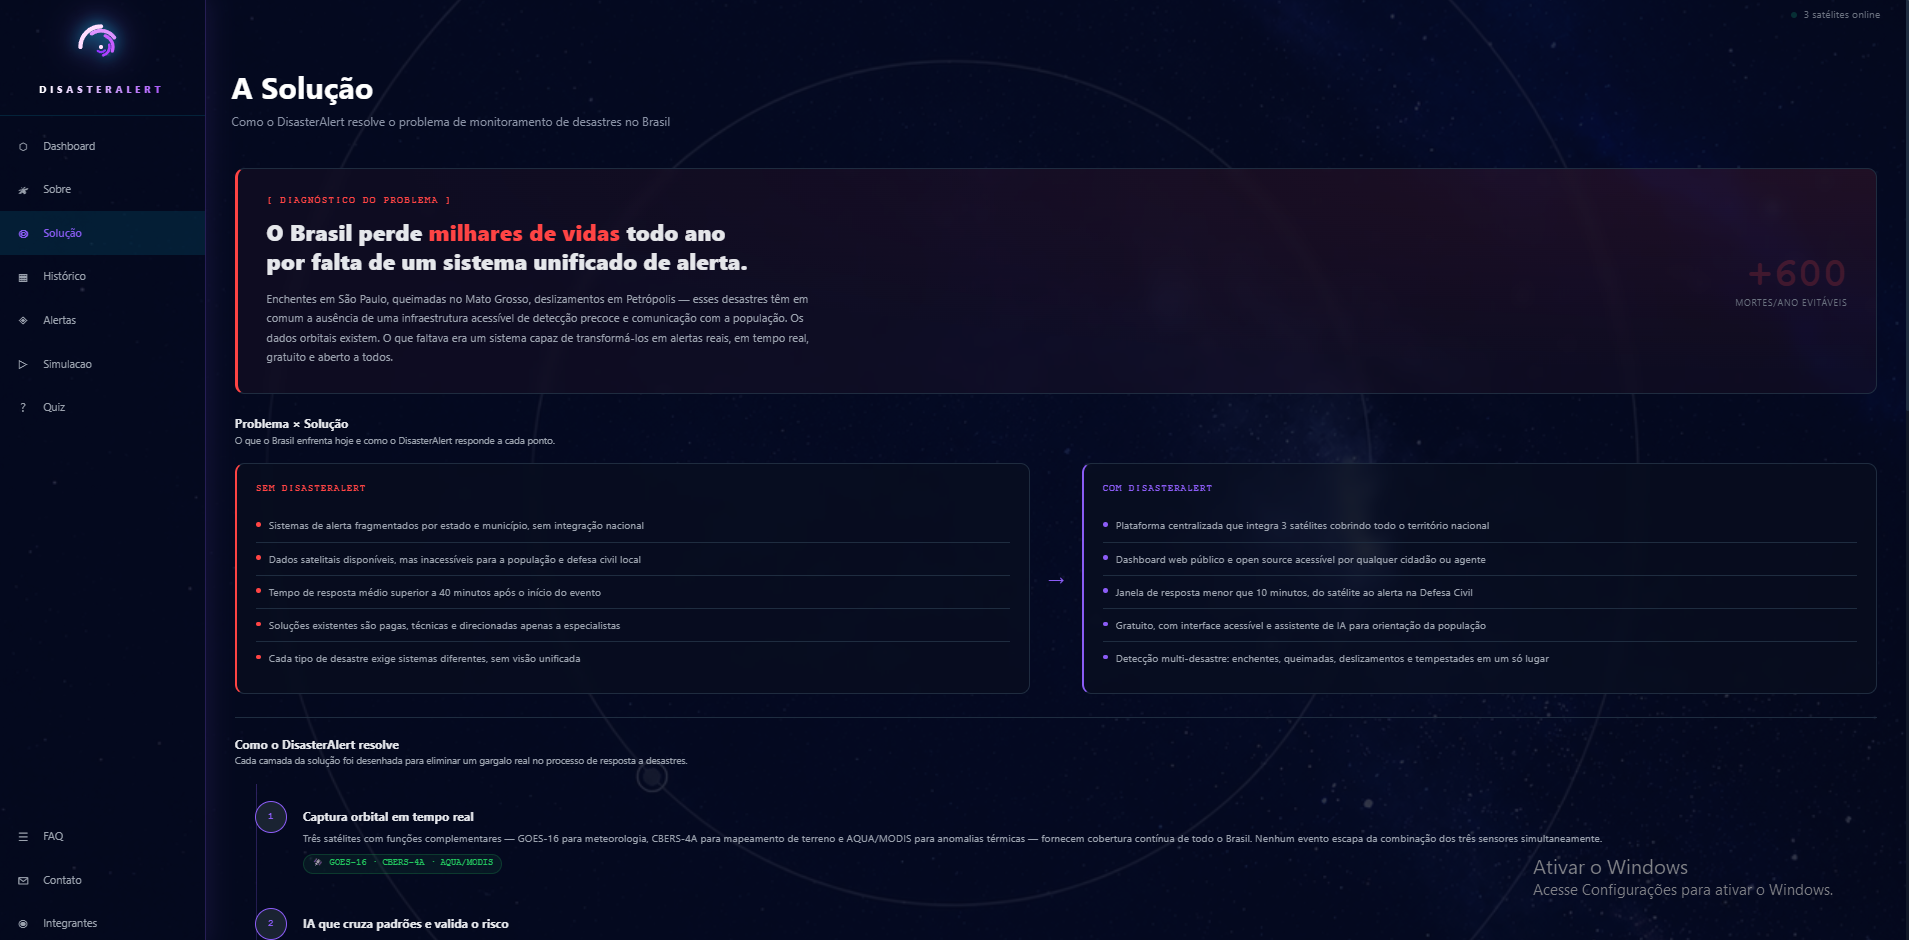
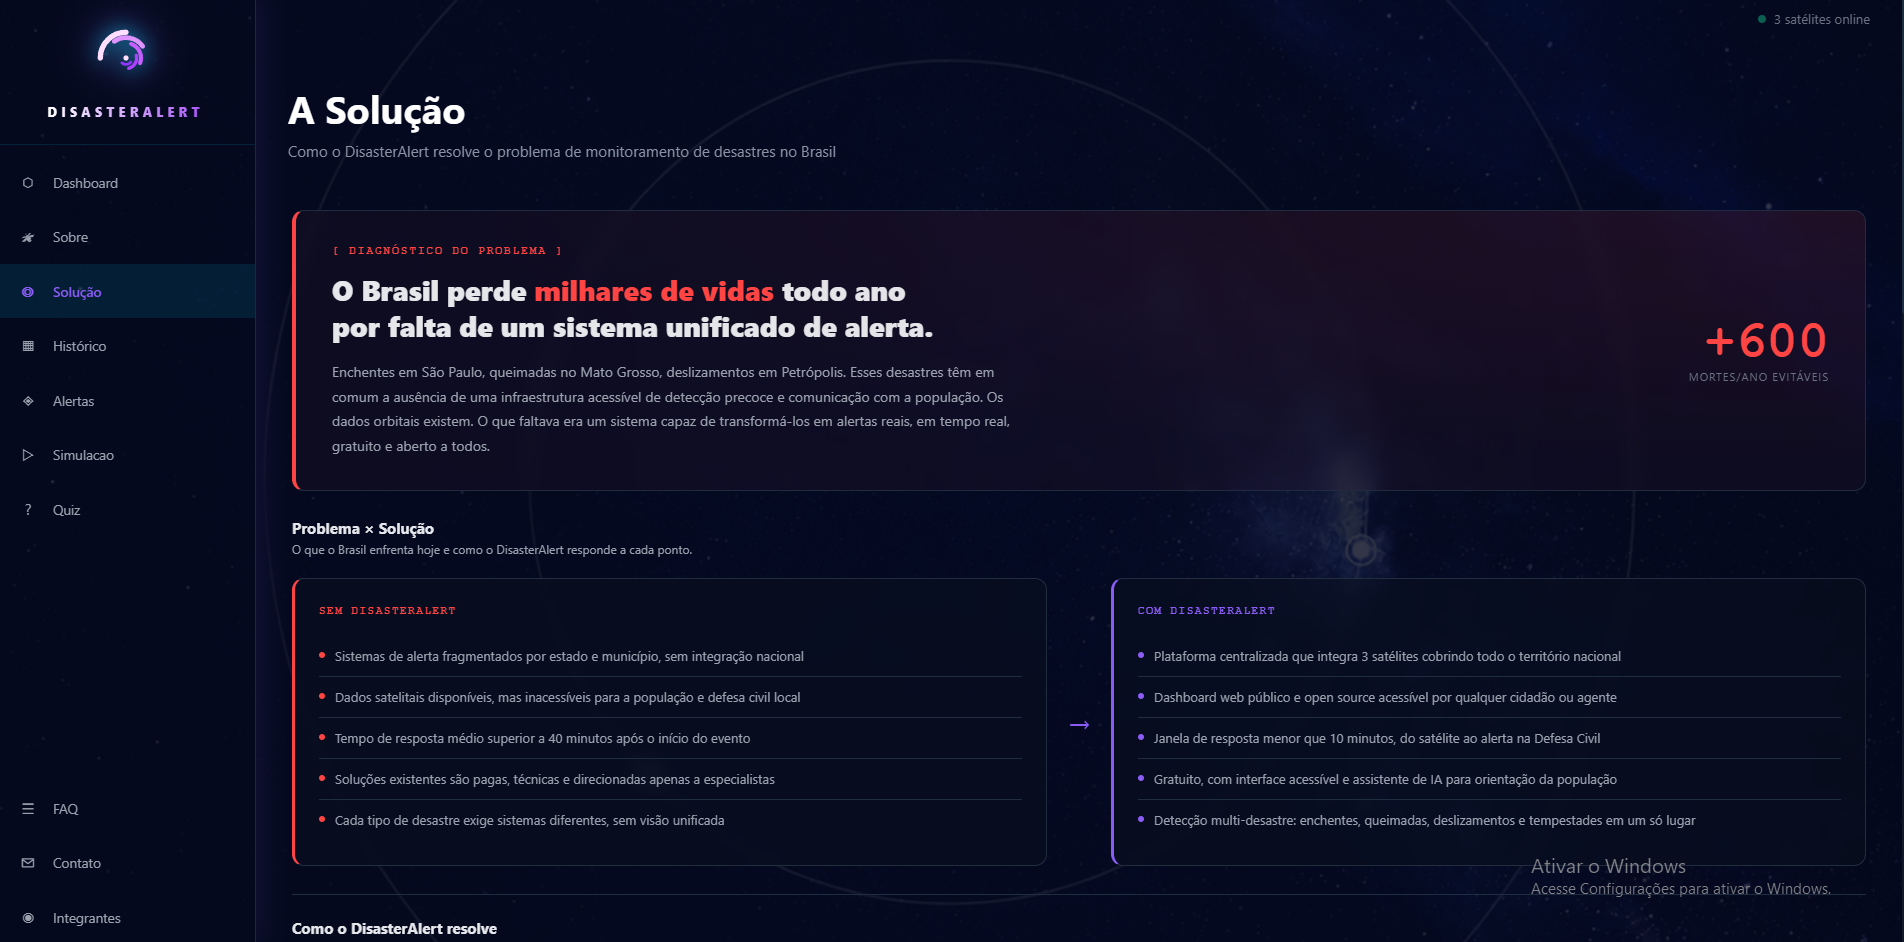
feat: ajustando imagens do print, e excluiando algumas coisas que achamos descenessarias

diff --git a/disaster-alert/pages/timeline.html b/disaster-alert/pages/timeline.html
@@ -90,10 +90,10 @@
       <div class="timeline-filters">
         <span class="timeline-filter-label">Filtrar:</span>
         <button class="tl-filter-btn active" data-filter="todos">Todos</button>
-        <button class="tl-filter-btn" data-filter="enchente">🌊 Enchente</button>
-        <button class="tl-filter-btn" data-filter="queimada">🔥 Queimada</button>
-        <button class="tl-filter-btn" data-filter="deslizamento">⛰ Deslizamento</button>
-        <button class="tl-filter-btn" data-filter="seca">☀ Seca</button>
+        <button class="tl-filter-btn" data-filter="enchente"> Enchente</button>
+        <button class="tl-filter-btn" data-filter="queimada"> Queimada</button>
+        <button class="tl-filter-btn" data-filter="deslizamento"> Deslizamento</button>
+        <button class="tl-filter-btn" data-filter="seca"> Seca</button>
       </div>
 
       <div class="timeline-count" id="timeline-count"></div>
@@ -109,7 +109,7 @@
               <span class="tl-card__year">2024</span>
               <div class="tl-card__main">
                 <div class="tl-card__title">Enchentes no Rio Grande do Sul</div>
-                <div class="tl-card__local">📍 Rio Grande do Sul — Maior desastre climático da história do estado</div>
+                <div class="tl-card__local"> Rio Grande do Sul — Maior desastre climático da história do estado</div>
               </div>
               <span class="tl-card__toggle">▾ ver detalhes</span>
             </div>
@@ -148,7 +148,7 @@
               <span class="tl-card__year">2023</span>
               <div class="tl-card__main">
                 <div class="tl-card__title">Deslizamentos em São Sebastião e Ubatuba</div>
-                <div class="tl-card__local">📍 Litoral Norte de São Paulo</div>
+                <div class="tl-card__local"> Litoral Norte de São Paulo</div>
               </div>
               <span class="tl-card__toggle">▾ ver detalhes</span>
             </div>
@@ -187,7 +187,7 @@
               <span class="tl-card__year">2022</span>
               <div class="tl-card__main">
                 <div class="tl-card__title">Tragédia de Petrópolis</div>
-                <div class="tl-card__local">📍 Petrópolis, RJ — A pior tragédia da cidade em 90 anos</div>
+                <div class="tl-card__local"> Petrópolis, RJ — A pior tragédia da cidade em 90 anos</div>
               </div>
               <span class="tl-card__toggle">▾ ver detalhes</span>
             </div>
@@ -226,7 +226,7 @@
               <span class="tl-card__year">2020</span>
               <div class="tl-card__main">
                 <div class="tl-card__title">Queimadas no Pantanal</div>
-                <div class="tl-card__local">📍 Pantanal no Mato Grosso e Mato Grosso do Sul</div>
+                <div class="tl-card__local"> Pantanal no Mato Grosso e Mato Grosso do Sul</div>
               </div>
               <span class="tl-card__toggle">▾ ver detalhes</span>
             </div>
@@ -265,7 +265,7 @@
               <span class="tl-card__year">2019</span>
               <div class="tl-card__main">
                 <div class="tl-card__title">Queimadas na Amazônia — Crise Global</div>
-                <div class="tl-card__local">📍 Amazônia — Pará, Amazonas, Mato Grosso, Rondônia</div>
+                <div class="tl-card__local"> Amazônia — Pará, Amazonas, Mato Grosso, Rondônia</div>
               </div>
               <span class="tl-card__toggle">▾ ver detalhes</span>
             </div>
@@ -304,7 +304,7 @@
               <span class="tl-card__year">2017</span>
               <div class="tl-card__main">
                 <div class="tl-card__title">Seca no Nordeste — Colapso do Semiárido</div>
-                <div class="tl-card__local">📍 Nordeste Brasileiro. 9 estados em situação de emergência</div>
+                <div class="tl-card__local"> Nordeste Brasileiro. 9 estados em situação de emergência</div>
               </div>
               <span class="tl-card__toggle">▾ ver detalhes</span>
             </div>
@@ -343,7 +343,7 @@
               <span class="tl-card__year">2013</span>
               <div class="tl-card__main">
                 <div class="tl-card__title">Enchentes e Deslizamentos na Região Serrana do Rio</div>
-                <div class="tl-card__local">📍 Serrana Fluminense — Nova Friburgo, Teresópolis, Petrópolis</div>
+                <div class="tl-card__local"> Serrana Fluminense — Nova Friburgo, Teresópolis, Petrópolis</div>
               </div>
               <span class="tl-card__toggle">▾ ver detalhes</span>
             </div>

diff --git a/disaster-alert/pages/solucao.html b/disaster-alert/pages/solucao.html
@@ -156,7 +156,7 @@
             <div class="narrative-step__desc">
               Três satélites com funções complementares. <strong>GOES-16</strong> para <strong>meteorologia</strong>, <strong>CBERS-4A</strong> para <strong>mapeamento de terreno</strong> e <strong>AQUA/MODIS</strong> para <strong>anomalias térmicas</strong> . Fornecem cobertura contínua de todo o Brasil. Nenhum evento escapa da combinação dos três sensores simultaneamente.
             </div>
-            <span class="narrative-step__badge">🛰 GOES-16 · CBERS-4A · AQUA/MODIS</span>
+            <span class="narrative-step__badge"> GOES-16 · CBERS-4A · AQUA/MODIS</span>
           </div>
         </div>
 
@@ -167,7 +167,7 @@
             <div class="narrative-step__desc">
               O núcleo de inteligência artificial do <strong>DisasterAlert</strong> não depende de um único satélite. Ele cruza os dados dos três fontes ao mesmo tempo para validar se um padrão suspeito é realmente um evento de risco. Eliminando falsos positivos e priorizando eventos críticos com severidade classificada.
             </div>
-            <span class="narrative-step__badge">🤖 IBM Watson · Análise multiespectral</span>
+            <span class="narrative-step__badge"> IBM Watson · Análise multiespectral</span>
           </div>
         </div>
 
@@ -178,7 +178,7 @@
             <div class="narrative-step__desc">
               Quando o risco é confirmado, o sistema aciona automaticamente a Defesa Civil via Telegram com nível de severidade, coordenadas e tipo de evento. Paralelamente, o dashboard web atualiza o mapa ao vivo e o feed de alertas para qualquer cidadão que acompanhe a plataforma.
             </div>
-            <span class="narrative-step__badge">📡 Node-RED · Telegram · Dashboard Web</span>
+            <span class="narrative-step__badge"> Node-RED · Telegram · Dashboard Web</span>
           </div>
         </div>
 
@@ -189,7 +189,7 @@
             <div class="narrative-step__desc">
               A maioria das vítimas de desastres não sabe o que fazer nos primeiros minutos. O assistente virtual do <strong>DisasterAlert</strong>, treinado com IBM Watson, responde perguntas em linguagem natural, orienta protocolos de segurança, indica rotas de evacuação e conecta o usuário com os serviços de emergência corretos, 24 horas por dia.
             </div>
-            <span class="narrative-step__badge">💬 Watson Assistant · STT · TTS</span>
+            <span class="narrative-step__badge"> Watson Assistant · STT · TTS</span>
           </div>
         </div>
 
@@ -200,7 +200,7 @@
             <div class="narrative-step__desc">
               Todos os alertas emitidos são persistidos em banco de dados SQLite, criando um histórico auditável de eventos por região, tipo e severidade. Isso permite que gestores públicos e pesquisadores analisem padrões sazonais, identifiquem áreas de risco recorrente e planejem respostas mais eficientes no futuro.
             </div>
-            <span class="narrative-step__badge">🗄 SQLite · Histórico de alertas</span>
+            <span class="narrative-step__badge"> SQLite · Histórico de alertas</span>
           </div>
         </div>
 

diff --git a/README.md b/README.md
@@ -51,6 +51,7 @@ disaster-alert/
 │   │   ├── sobre.png
 │   │   ├── solucao_1.png
 │   │   ├── solucao_2.png
+│   │   ├── solucao_3.png
 │   │   └── timeline.png
 │   └── video/
 │       ├── satelite.mp4
@@ -209,6 +210,7 @@ O ecossistema da aplicação foi desenhado com o propósito de mitigar impactos 
 ### Solução
 ![Solução](disaster-alert/assets/img/solucao_1.png)
 ![Solução](disaster-alert/assets/img/solucao_2.png)
+![Solução](disaster-alert/assets/img/solucao_3.png)
 
 ### FAQ
 ![FAQ](disaster-alert/assets/img/faq.png)
